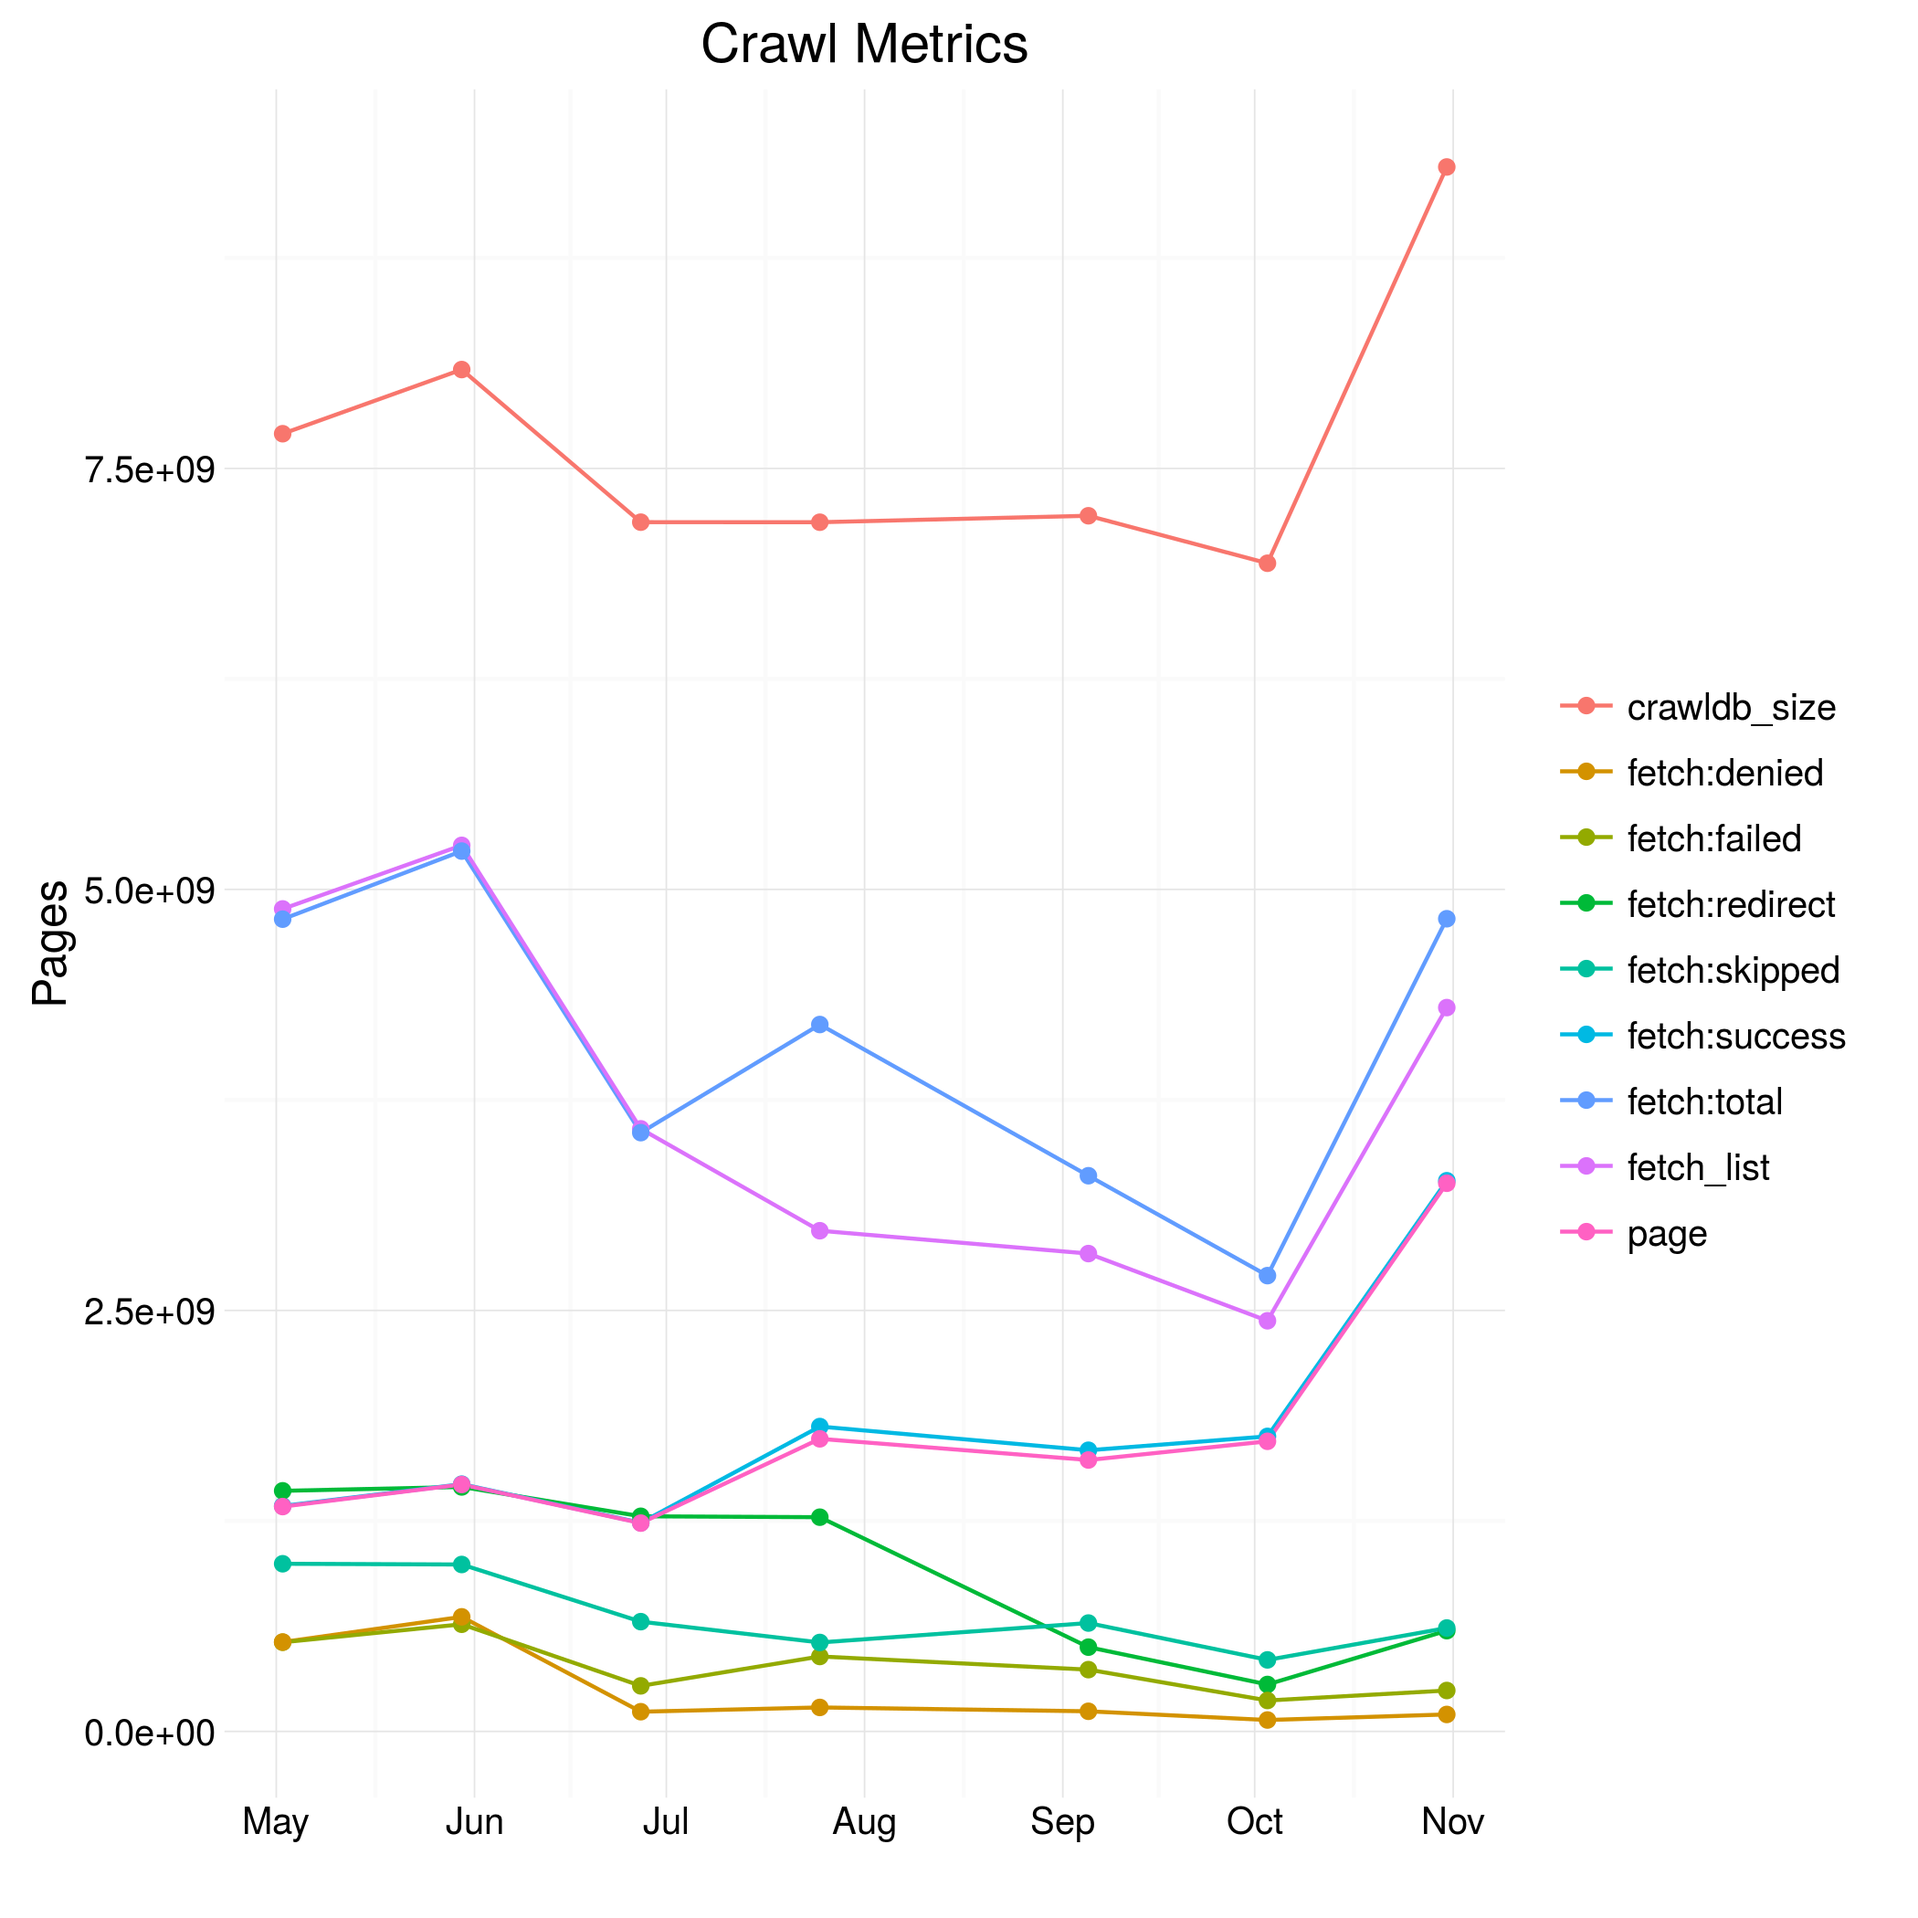
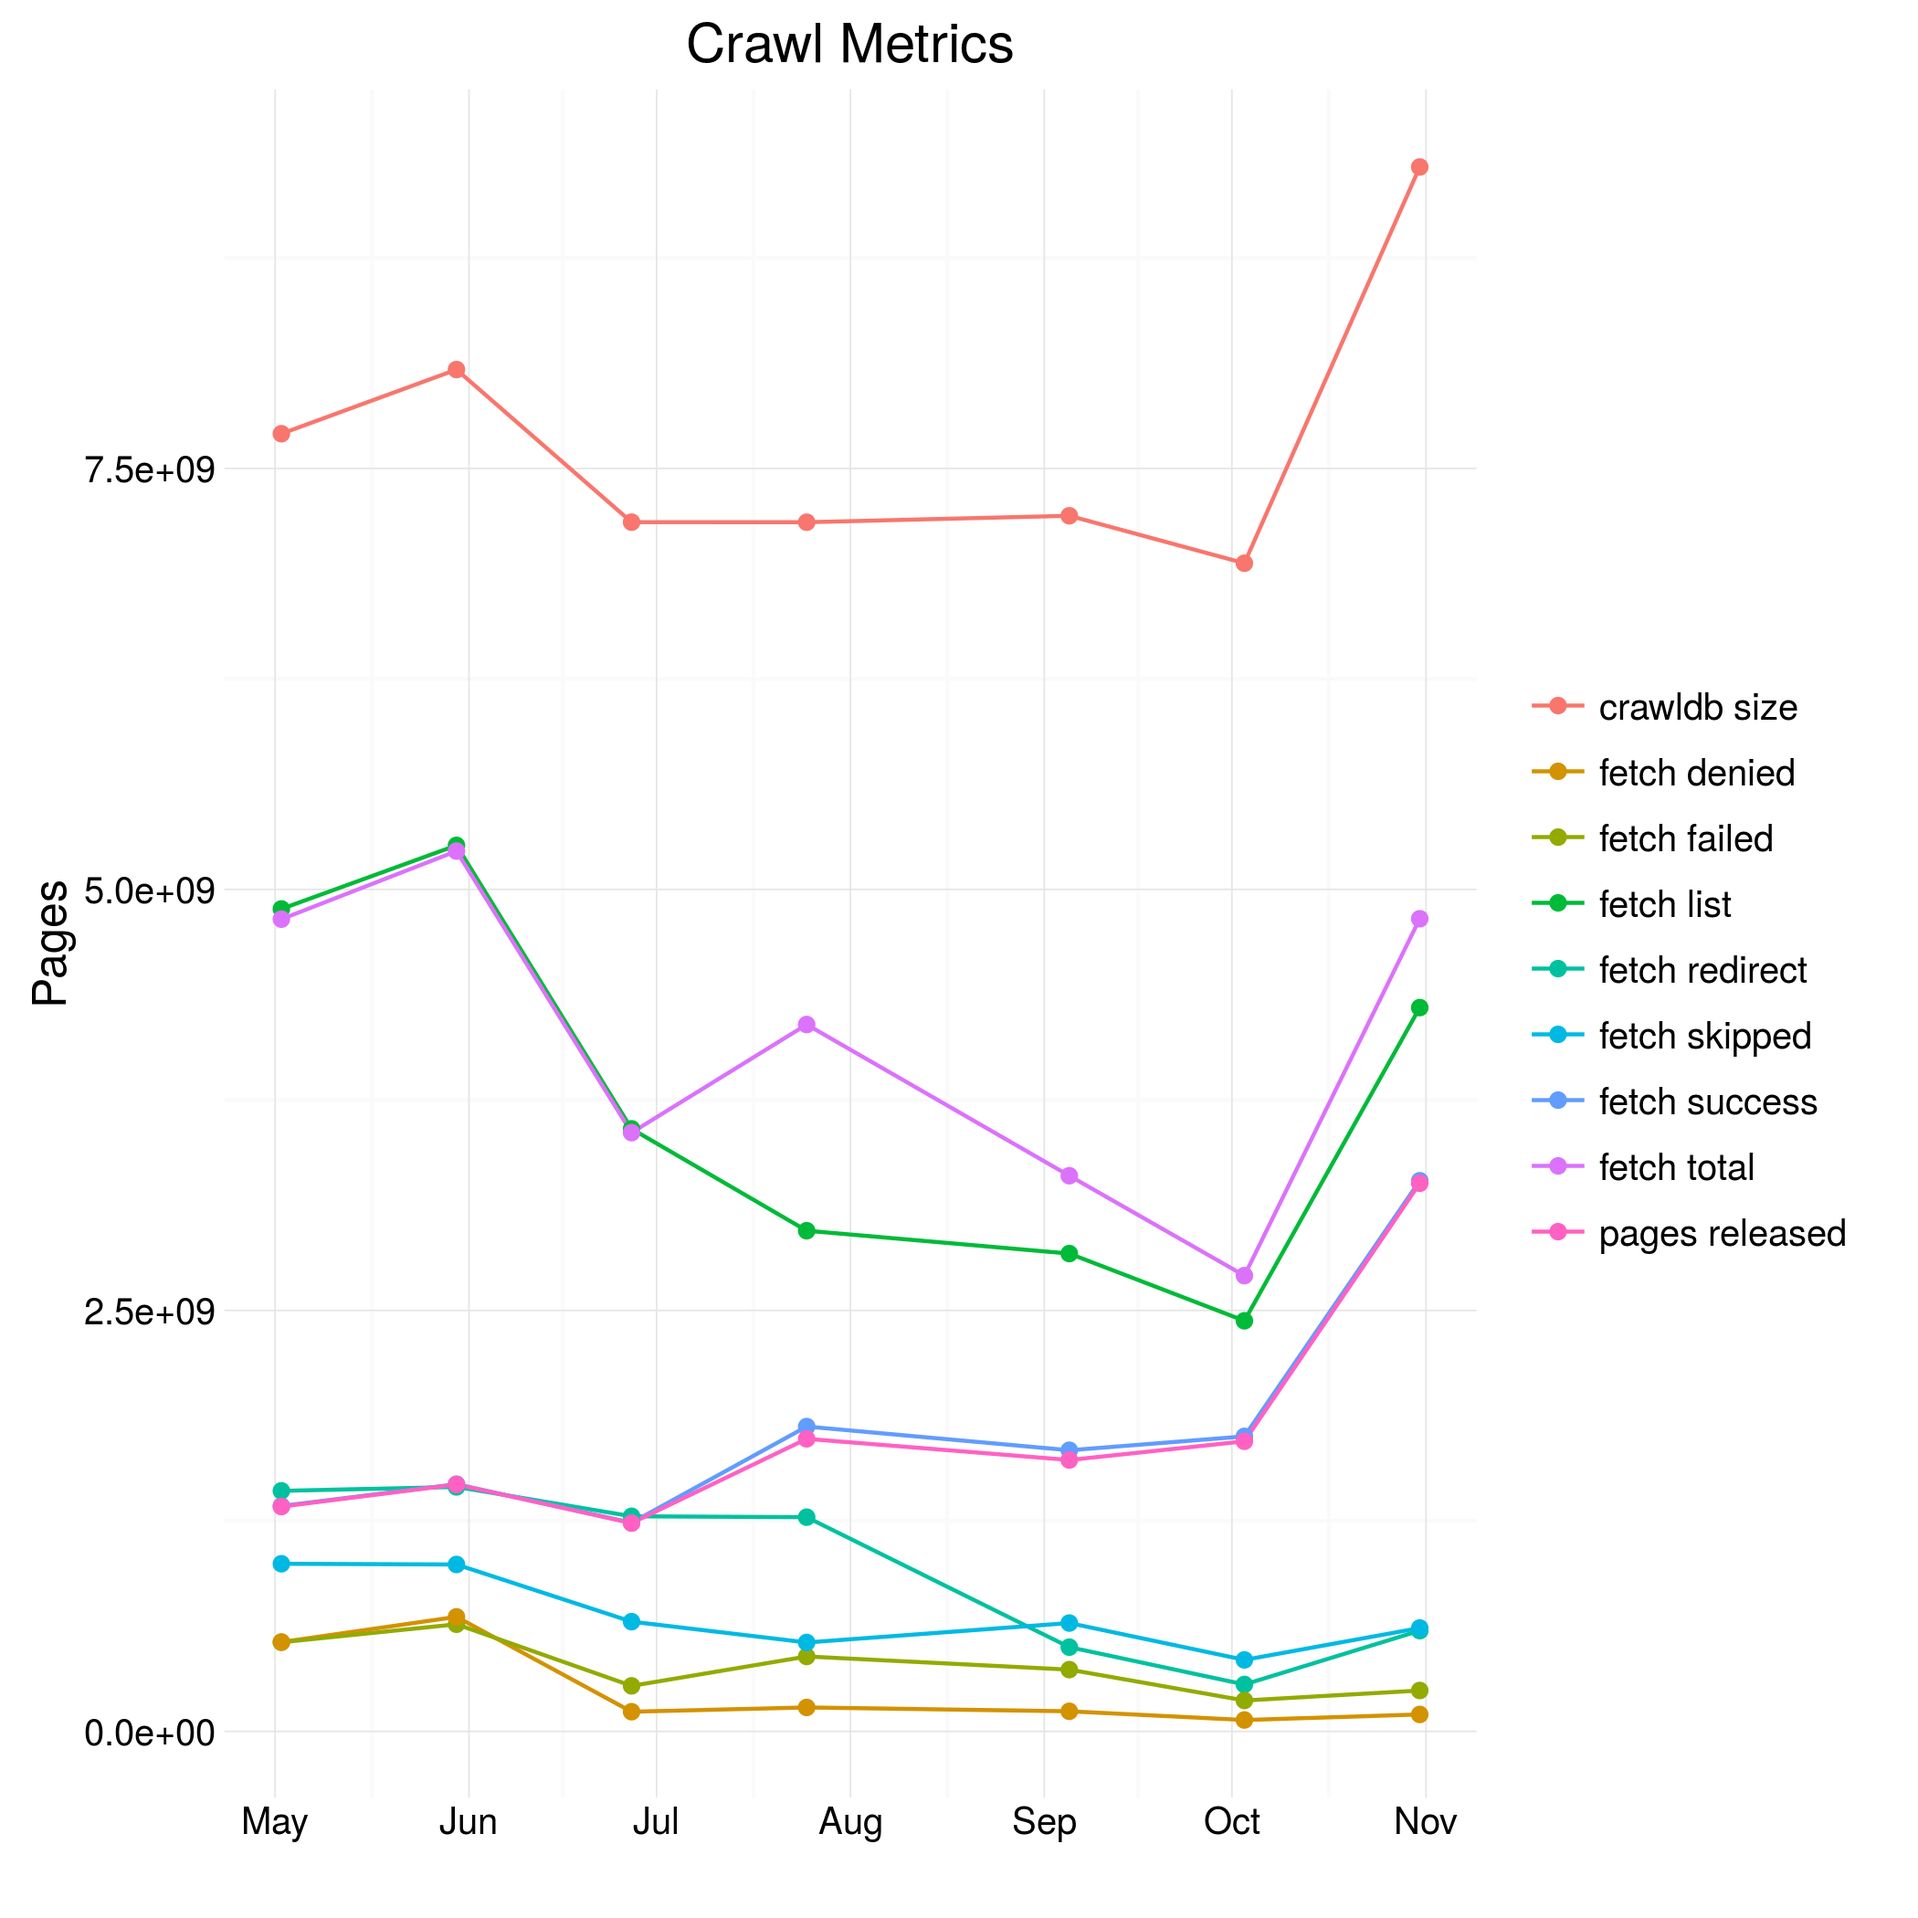
line plot: allow function to normalize names in legend

diff --git a/plot_crawl_size.py b/plot_crawl_size.py
@@ -1,6 +1,7 @@
 import pandas
 import re
 import sys
+import types
 
 from collections import defaultdict
 from hyperloglog import HyperLogLog
@@ -185,10 +186,15 @@ class CrawlSizePlot(CrawlPlot):
             data = data[data['type'].isin(row_filter)]
         if type_name_norm is not '':
             for value in row_filter:
-                if re.search(type_name_norm, value):
-                    replacement = value
-                    while re.search(type_name_norm, replacement):
-                        replacement = re.sub(type_name_norm, '', replacement)
+                replacement = value
+                if isinstance(type_name_norm, str):
+                    if re.search(type_name_norm, value):
+                        while re.search(type_name_norm, replacement):
+                            replacement = re.sub(type_name_norm,
+                                                 '', replacement)
+                elif isinstance(type_name_norm, types.FunctionType):
+                    replacement = type_name_norm(value)
+                if replacement != value:
                     data.replace(to_replace=value, value=replacement,
                                  inplace=True)
         return self.line_plot(data, title, ylabel, img_file,

diff --git a/plot_crawler_metrics.py b/plot_crawler_metrics.py
@@ -52,6 +52,13 @@ class CrawlerMetrics(CrawlSizePlot):
                     _N = self.type_index[item_type][self.crawls[crawl]]
                     self.size_by_type['percentage'][_N] = 100.0*count/total
 
+    @staticmethod
+    def row2title(row):
+        row = re.sub('(?<=^fetch)er|^generator:', '', row)
+        row = re.sub('[:_]', ' ', row)
+        if row == 'page':
+            row = 'pages released'
+        return row
 
     def plot(self):
         # -- line plot
@@ -59,7 +66,7 @@ class CrawlerMetrics(CrawlSizePlot):
                      'fetcher:success', 'fetcher:total', 'fetcher:redirect',
                      'fetcher:failed', 'fetcher:denied', 'fetcher:skipped',
                      'page']
-        self.size_plot(self.size_by_type, row_types, '(?<=^fetch)er|^generator:',
+        self.size_plot(self.size_by_type, row_types, CrawlerMetrics.row2title,
                        'Crawl Metrics', 'Pages',
                        'crawler_metrics.png')
         # -- stacked bar plot
